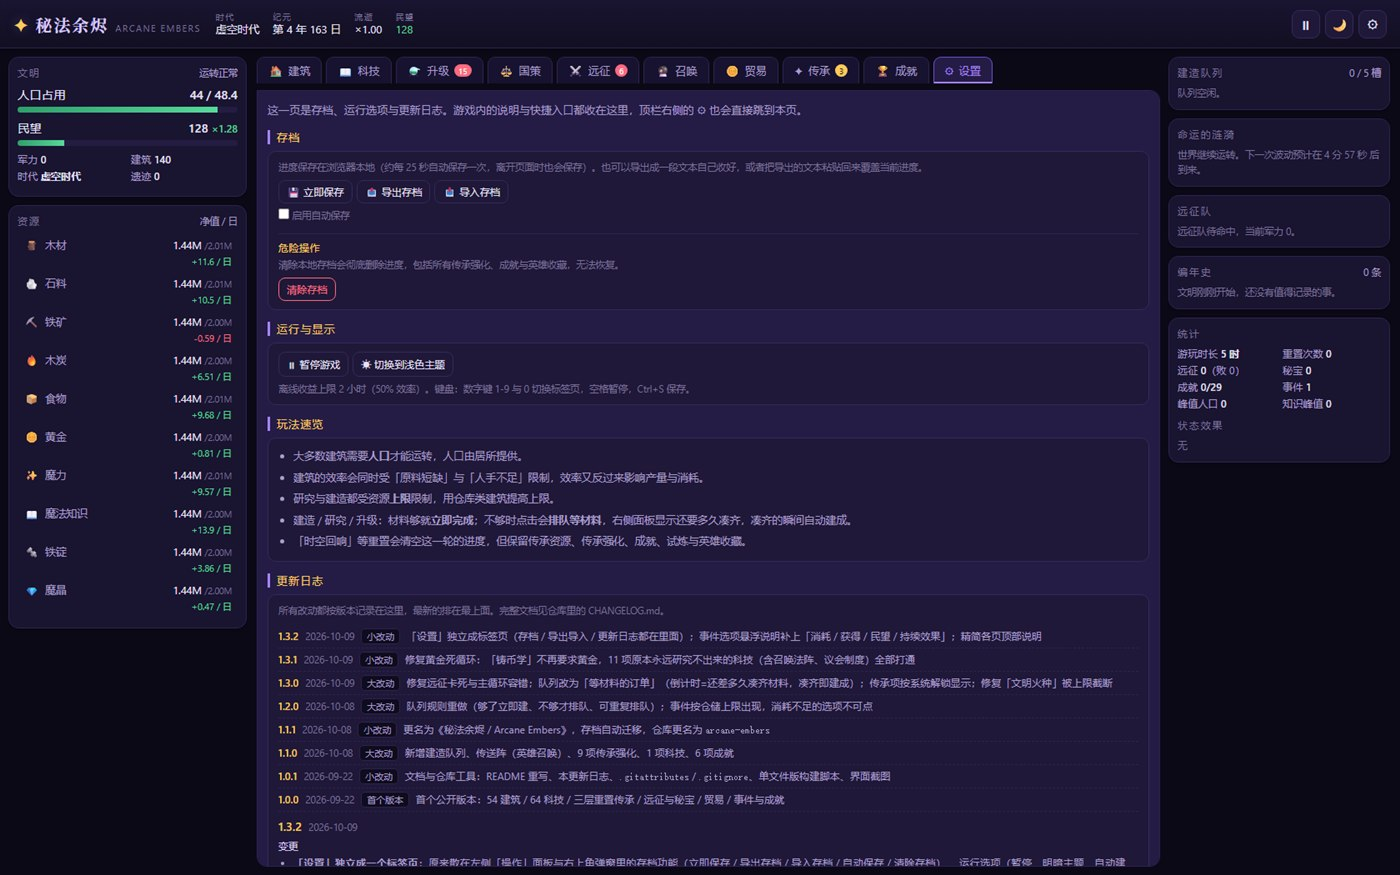
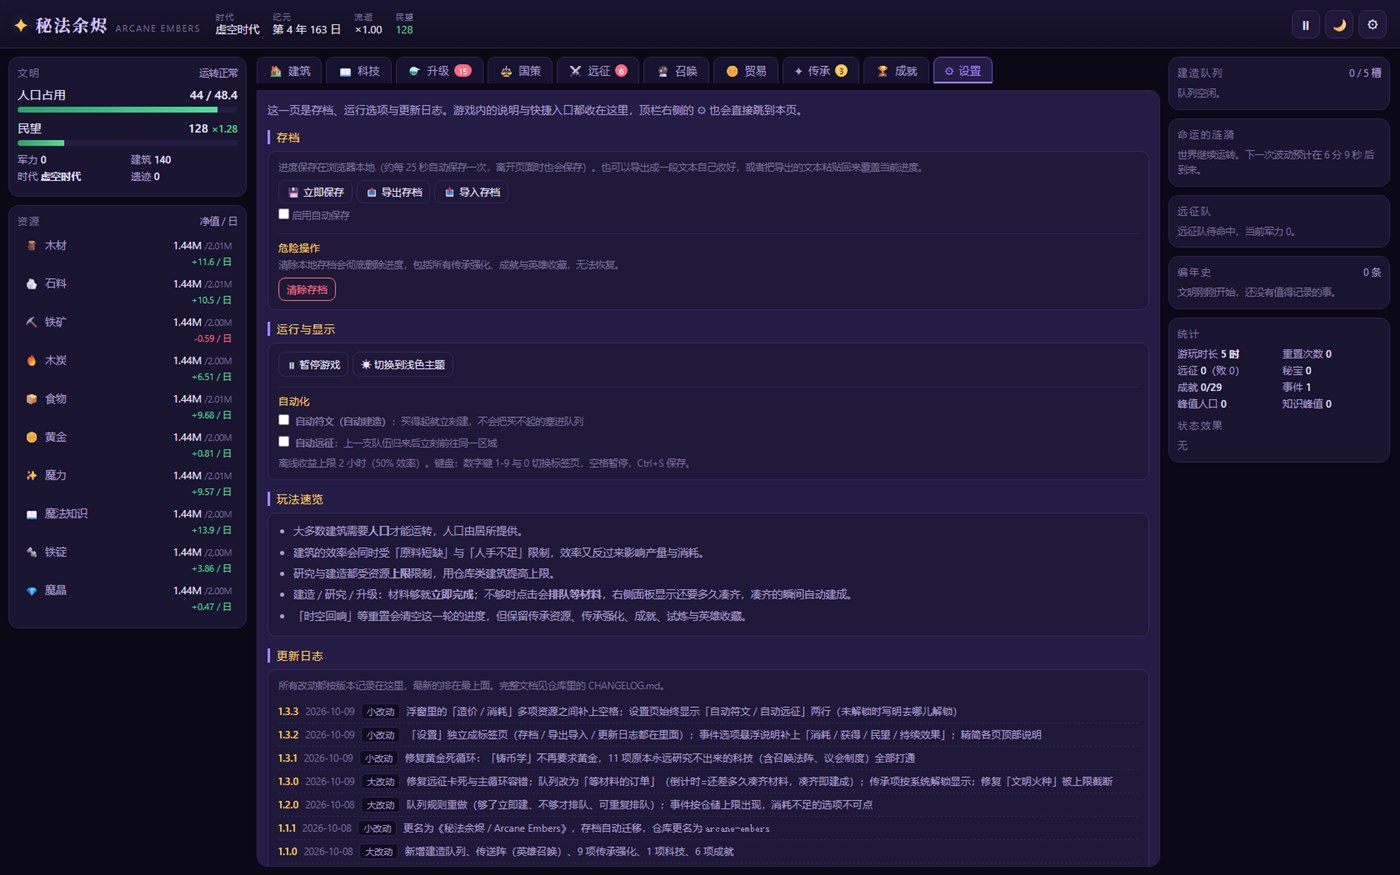
fix: 浮窗造价补空格 + 设置页常驻显示自动符文/自动远征开关（v1.3.3）
priceHtml/costHtml 由 join('') 改为 join(' ')：多项资源不再挤成一串（浮窗、队列、出征消耗、事件消耗都受益）。

设置页「运行与显示 → 自动化」始终显示两行：已解锁为可勾选开关，未解锁写明「在传承 → 奥术遗物里购买自动符文」。

Changed region(s): [[0.1843, 0.432, 0.7986, 1.0], [0.9521, 0.1543, 0.9829, 0.1851]]

diff --git a/dist/arcane-embers.html b/dist/arcane-embers.html
@@ -297,6 +297,8 @@ h1, h2, h3, .serif { font-family: "Palatino Linotype", "Songti SC", Georgia, ser
 }
 .guide-list { margin: 0; padding-left: 18px; color: var(--text-secondary); font-size: .8rem; line-height: 1.75; }
 .guide-list li { margin-bottom: 3px; }
+.auto-row { font-size: .8rem; line-height: 1.6; }
+.auto-row input[type="checkbox"] { margin-right: 4px; }
 .cl-overview { margin: 8px 0 4px; }
 .cl-row {
     display: flex; align-items: baseline; gap: 8px; flex-wrap: wrap;
@@ -2560,6 +2562,12 @@ window.CHANGELOG_DATA = {
     "source": "CHANGELOG.md",
     "overview": [
         {
+            "version": "1.3.3",
+            "date": "2026-10-09",
+            "type": "小改动",
+            "summary": "浮窗里的「造价 / 消耗」多项资源之间补上空格；设置页始终显示「自动符文 / 自动远征」两行（未解锁时写明去哪儿解锁）"
+        },
+        {
             "version": "1.3.2",
             "date": "2026-10-09",
             "type": "小改动",
@@ -2609,6 +2617,19 @@ window.CHANGELOG_DATA = {
         }
     ],
     "versions": [
+        {
+            "version": "1.3.3",
+            "date": "2026-10-09",
+            "sections": [
+                {
+                    "title": "修复",
+                    "items": [
+                        "<b>浮窗里的「造价 / 消耗」挤成一团<\/b>：建筑、升级、出征、事件等浮窗里的多项资源是拼成一串输出的， 中间没有分隔（例如「木材 500石料 400铁锭 60」），要盯半天才分得清哪一档数字属于哪个资源。 现在统一用空格分隔，读起来是「木材 500　石料 400　铁锭 60」。",
+                        "<b>找不到「自动符文」的开关<\/b>：自动化开关原本只在解锁对应传承后才渲染，没解锁时设置页里一片空白， 玩家根本不知道开关将来会出现在哪。现在「设置 → 运行与显示 → 自动化」<b>始终<\/b>显示两行： 已解锁就是可直接勾选的开关；未解锁则写明「🔒 未解锁 —— 在「传承 → 奥术遗物」里购买传承强化「自动符文」后，本页会出现这个开关」。"
+                    ]
+                }
+            ]
+        },
         {
             "version": "1.3.2",
             "date": "2026-10-09",
@@ -5861,7 +5882,8 @@ window.CHANGELOG_DATA = {
             const lack = have + 1e-6 < price[k];
             parts.push('<span class="' + (lack ? 'lack' : '') + '">' + esc(k) + ' ' + num(price[k]) + '</span>');
         }
-        return parts.join('') || '<span>免费</span>';
+        /* 用空格分隔：多个资源挤在一起会看不清（flex 容器里的空白节点不会被渲染，所以不会重复留白） */
+        return parts.join(' ') || '<span>免费</span>';
     }
 
     function costHtml(cost) {
@@ -5874,7 +5896,7 @@ window.CHANGELOG_DATA = {
             parts.push('<span class="' + (lack ? 'lack' : '') + '" data-tip="res|' + esc(k) + '">' + esc(k) + ' ' + num(cost[k]) +
                 (capIssue ? ' ⚠' : '') + '</span>');
         }
-        return parts.join('') || '<span>免费</span>';
+        return parts.join(' ') || '<span>免费</span>';
     }
 
     /* ---------------- 效果文本 ---------------- */
@@ -7409,6 +7431,19 @@ window.CHANGELOG_DATA = {
     }
 
     /* ---------------- 运行与显示 ---------------- */
+    /* 自动化开关：没解锁时也照样显示一行，并说明去哪儿解锁 —— 否则玩家根本找不到这个开关 */
+    function autoRow(opts) {
+        const s = GameState;
+        const unlocked = EffectsManager.hasSpecial(s, opts.special);
+        if (!unlocked) {
+            return '<div class="auto-row"><span class="hint">🔒 <b>' + G.esc(opts.name) + '</b>：未解锁　—　' +
+                G.esc(opts.how) + '</span></div>';
+        }
+        return '<div class="auto-row"><label class="hint" style="cursor:pointer">' +
+            '<input type="checkbox" data-act="' + opts.act + '"' + (s.settings[opts.setting] ? ' checked' : '') + '> ' +
+            '<b>' + G.esc(opts.name) + '</b>：' + G.esc(opts.desc) + '</label></div>';
+    }
+
     function runSection() {
         const s = GameState;
         let html = '<div class="section-title">运行与显示</div><div class="settings-card">';
@@ -7416,16 +7451,21 @@ window.CHANGELOG_DATA = {
         html += '<button class="btn" data-act="pause">' + (s.paused ? '▶ 继续游戏' : '⏸ 暂停游戏') + '</button>';
         html += '<button class="btn" data-act="theme">' + (s.settings.theme === 'dark' ? '☀ 切换到浅色主题' : '🌙 切换到深色主题') + '</button>';
         html += '</div>';
-        const auto = [];
-        if (EffectsManager.hasSpecial(s, 'autoBuild')) {
-            auto.push('<label class="hint" style="cursor:pointer"><input type="checkbox" data-act="toggleAutoBuild"' +
-                (s.settings.autoBuild ? ' checked' : '') + '> 自动建造：买得起就立刻建（不会把买不起的塞进队列）</label>');
-        }
-        if (EffectsManager.hasSpecial(s, 'autoExpedition')) {
-            auto.push('<label class="hint" style="cursor:pointer"><input type="checkbox" data-act="toggleAutoExp"' +
-                (s.settings.autoExpedition ? ' checked' : '') + '> 自动远征：上一支队伍归来后立刻前往同一区域</label>');
-        }
-        if (auto.length) html += '<div class="mt6" style="display:flex;flex-direction:column;gap:6px">' + auto.join('') + '</div>';
+        html += '<div class="section-sub">自动化</div>';
+        html += '<div class="mt6" style="display:flex;flex-direction:column;gap:6px">';
+        html += autoRow({
+            special: 'autoBuild', setting: 'autoBuild', act: 'toggleAutoBuild',
+            name: '自动符文（自动建造）',
+            desc: '买得起就立刻建，不会把买不起的塞进队列',
+            how: '在「传承 → 奥术遗物」里购买传承强化「自动符文」后，本页会出现这个开关',
+        });
+        html += autoRow({
+            special: 'autoExpedition', setting: 'autoExpedition', act: 'toggleAutoExp',
+            name: '自动远征',
+            desc: '上一支队伍归来后立刻前往同一区域',
+            how: '先在「传承 → 奥术遗物」里买「自动符文」，再买「自动远征」',
+        });
+        html += '</div>';
         html += '<div class="hint mt6">离线收益上限 ' + (2 + EffectsManager.additive(s, 'offlineHours')) + ' 小时（' +
             (EffectsManager.hasSpecial(s, 'offlinePerfect') ? '100%' : '50%') + ' 效率）。' +
             '键盘：数字键 1-9 与 0 切换标签页，空格暂停，Ctrl+S 保存。</div>';

diff --git a/js/ui/tab-settings.js b/js/ui/tab-settings.js
@@ -26,6 +26,19 @@
     }
 
     /* ---------------- 运行与显示 ---------------- */
+    /* 自动化开关：没解锁时也照样显示一行，并说明去哪儿解锁 —— 否则玩家根本找不到这个开关 */
+    function autoRow(opts) {
+        const s = GameState;
+        const unlocked = EffectsManager.hasSpecial(s, opts.special);
+        if (!unlocked) {
+            return '<div class="auto-row"><span class="hint">🔒 <b>' + G.esc(opts.name) + '</b>：未解锁　—　' +
+                G.esc(opts.how) + '</span></div>';
+        }
+        return '<div class="auto-row"><label class="hint" style="cursor:pointer">' +
+            '<input type="checkbox" data-act="' + opts.act + '"' + (s.settings[opts.setting] ? ' checked' : '') + '> ' +
+            '<b>' + G.esc(opts.name) + '</b>：' + G.esc(opts.desc) + '</label></div>';
+    }
+
     function runSection() {
         const s = GameState;
         let html = '<div class="section-title">运行与显示</div><div class="settings-card">';
@@ -33,16 +46,21 @@
         html += '<button class="btn" data-act="pause">' + (s.paused ? '▶ 继续游戏' : '⏸ 暂停游戏') + '</button>';
         html += '<button class="btn" data-act="theme">' + (s.settings.theme === 'dark' ? '☀ 切换到浅色主题' : '🌙 切换到深色主题') + '</button>';
         html += '</div>';
-        const auto = [];
-        if (EffectsManager.hasSpecial(s, 'autoBuild')) {
-            auto.push('<label class="hint" style="cursor:pointer"><input type="checkbox" data-act="toggleAutoBuild"' +
-                (s.settings.autoBuild ? ' checked' : '') + '> 自动建造：买得起就立刻建（不会把买不起的塞进队列）</label>');
-        }
-        if (EffectsManager.hasSpecial(s, 'autoExpedition')) {
-            auto.push('<label class="hint" style="cursor:pointer"><input type="checkbox" data-act="toggleAutoExp"' +
-                (s.settings.autoExpedition ? ' checked' : '') + '> 自动远征：上一支队伍归来后立刻前往同一区域</label>');
-        }
-        if (auto.length) html += '<div class="mt6" style="display:flex;flex-direction:column;gap:6px">' + auto.join('') + '</div>';
+        html += '<div class="section-sub">自动化</div>';
+        html += '<div class="mt6" style="display:flex;flex-direction:column;gap:6px">';
+        html += autoRow({
+            special: 'autoBuild', setting: 'autoBuild', act: 'toggleAutoBuild',
+            name: '自动符文（自动建造）',
+            desc: '买得起就立刻建，不会把买不起的塞进队列',
+            how: '在「传承 → 奥术遗物」里购买传承强化「自动符文」后，本页会出现这个开关',
+        });
+        html += autoRow({
+            special: 'autoExpedition', setting: 'autoExpedition', act: 'toggleAutoExp',
+            name: '自动远征',
+            desc: '上一支队伍归来后立刻前往同一区域',
+            how: '先在「传承 → 奥术遗物」里买「自动符文」，再买「自动远征」',
+        });
+        html += '</div>';
         html += '<div class="hint mt6">离线收益上限 ' + (2 + EffectsManager.additive(s, 'offlineHours')) + ' 小时（' +
             (EffectsManager.hasSpecial(s, 'offlinePerfect') ? '100%' : '50%') + ' 效率）。' +
             '键盘：数字键 1-9 与 0 切换标签页，空格暂停，Ctrl+S 保存。</div>';

diff --git a/js/config/changelog.js b/js/config/changelog.js
@@ -3,6 +3,12 @@ window.CHANGELOG_DATA = {
     "source": "CHANGELOG.md",
     "overview": [
         {
+            "version": "1.3.3",
+            "date": "2026-10-09",
+            "type": "小改动",
+            "summary": "浮窗里的「造价 / 消耗」多项资源之间补上空格；设置页始终显示「自动符文 / 自动远征」两行（未解锁时写明去哪儿解锁）"
+        },
+        {
             "version": "1.3.2",
             "date": "2026-10-09",
             "type": "小改动",
@@ -52,6 +58,19 @@ window.CHANGELOG_DATA = {
         }
     ],
     "versions": [
+        {
+            "version": "1.3.3",
+            "date": "2026-10-09",
+            "sections": [
+                {
+                    "title": "修复",
+                    "items": [
+                        "<b>浮窗里的「造价 / 消耗」挤成一团<\/b>：建筑、升级、出征、事件等浮窗里的多项资源是拼成一串输出的， 中间没有分隔（例如「木材 500石料 400铁锭 60」），要盯半天才分得清哪一档数字属于哪个资源。 现在统一用空格分隔，读起来是「木材 500　石料 400　铁锭 60」。",
+                        "<b>找不到「自动符文」的开关<\/b>：自动化开关原本只在解锁对应传承后才渲染，没解锁时设置页里一片空白， 玩家根本不知道开关将来会出现在哪。现在「设置 → 运行与显示 → 自动化」<b>始终<\/b>显示两行： 已解锁就是可直接勾选的开关；未解锁则写明「🔒 未解锁 —— 在「传承 → 奥术遗物」里购买传承强化「自动符文」后，本页会出现这个开关」。"
+                    ]
+                }
+            ]
+        },
         {
             "version": "1.3.2",
             "date": "2026-10-09",

diff --git a/js/ui/dom.js b/js/ui/dom.js
@@ -191,7 +191,8 @@
             const lack = have + 1e-6 < price[k];
             parts.push('<span class="' + (lack ? 'lack' : '') + '">' + esc(k) + ' ' + num(price[k]) + '</span>');
         }
-        return parts.join('') || '<span>免费</span>';
+        /* 用空格分隔：多个资源挤在一起会看不清（flex 容器里的空白节点不会被渲染，所以不会重复留白） */
+        return parts.join(' ') || '<span>免费</span>';
     }
 
     function costHtml(cost) {
@@ -204,7 +205,7 @@
             parts.push('<span class="' + (lack ? 'lack' : '') + '" data-tip="res|' + esc(k) + '">' + esc(k) + ' ' + num(cost[k]) +
                 (capIssue ? ' ⚠' : '') + '</span>');
         }
-        return parts.join('') || '<span>免费</span>';
+        return parts.join(' ') || '<span>免费</span>';
     }
 
     /* ---------------- 效果文本 ---------------- */

diff --git a/css/style.css b/css/style.css
@@ -288,6 +288,8 @@ h1, h2, h3, .serif { font-family: "Palatino Linotype", "Songti SC", Georgia, ser
 }
 .guide-list { margin: 0; padding-left: 18px; color: var(--text-secondary); font-size: .8rem; line-height: 1.75; }
 .guide-list li { margin-bottom: 3px; }
+.auto-row { font-size: .8rem; line-height: 1.6; }
+.auto-row input[type="checkbox"] { margin-right: 4px; }
 .cl-overview { margin: 8px 0 4px; }
 .cl-row {
     display: flex; align-items: baseline; gap: 8px; flex-wrap: wrap;

diff --git a/CHANGELOG.md b/CHANGELOG.md
@@ -7,6 +7,7 @@
 
 | 版本 | 日期 | 类型 | 内容摘要 |
 | --- | --- | --- | --- |
+| **1.3.3** | 2026-10-09 | 小改动 | 浮窗里的「造价 / 消耗」多项资源之间补上空格；设置页始终显示「自动符文 / 自动远征」两行（未解锁时写明去哪儿解锁） |
 | **1.3.2** | 2026-10-09 | 小改动 | 「设置」独立成标签页（存档 / 导出导入 / 更新日志都在里面）；事件选项悬浮说明补上「消耗 / 获得 / 民望 / 持续效果」；精简各页顶部说明 |
 | **1.3.1** | 2026-10-09 | 小改动 | 修复黄金死循环：「铸币学」不再要求黄金，11 项原本永远研究不出来的科技（含召唤法阵、议会制度）全部打通 |
 | **1.3.0** | 2026-10-09 | 大改动 | 修复远征卡死与主循环容错；队列改为「等材料的订单」（倒计时=还差多久凑齐材料，凑齐即建成）；传承项按系统解锁显示；修复「文明火种」被上限截断 |
@@ -37,6 +38,17 @@
 ### 新增
 
 * 暂无
+
+## [1.3.3] - 2026-10-09
+
+### 修复
+
+* **浮窗里的「造价 / 消耗」挤成一团**：建筑、升级、出征、事件等浮窗里的多项资源是拼成一串输出的，
+  中间没有分隔（例如「木材 500石料 400铁锭 60」），要盯半天才分得清哪一档数字属于哪个资源。
+  现在统一用空格分隔，读起来是「木材 500　石料 400　铁锭 60」。
+* **找不到「自动符文」的开关**：自动化开关原本只在解锁对应传承后才渲染，没解锁时设置页里一片空白，
+  玩家根本不知道开关将来会出现在哪。现在「设置 → 运行与显示 → 自动化」**始终**显示两行：
+  已解锁就是可直接勾选的开关；未解锁则写明「🔒 未解锁 —— 在「传承 → 奥术遗物」里购买传承强化「自动符文」后，本页会出现这个开关」。
 
 ## [1.3.2] - 2026-10-09
 
